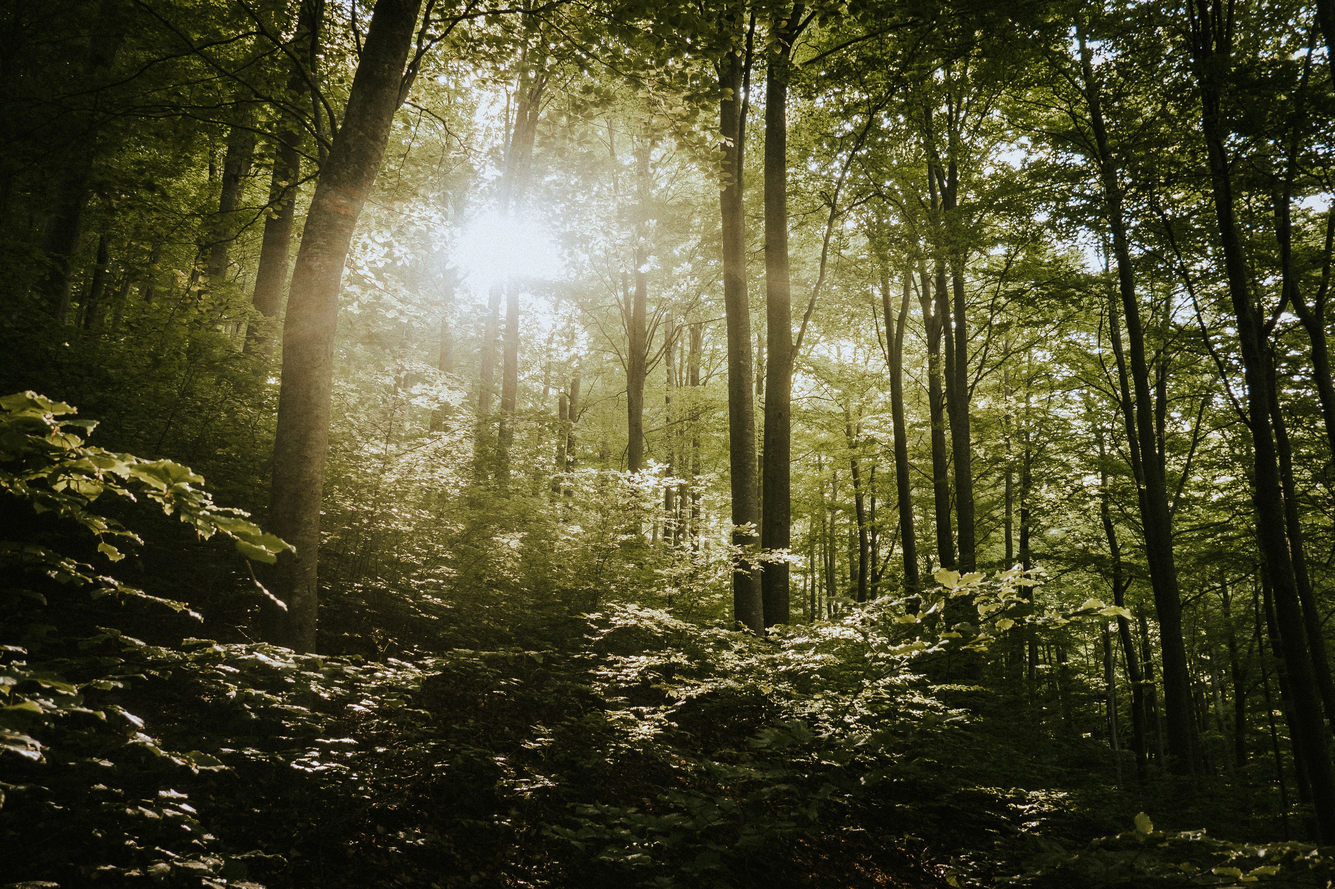
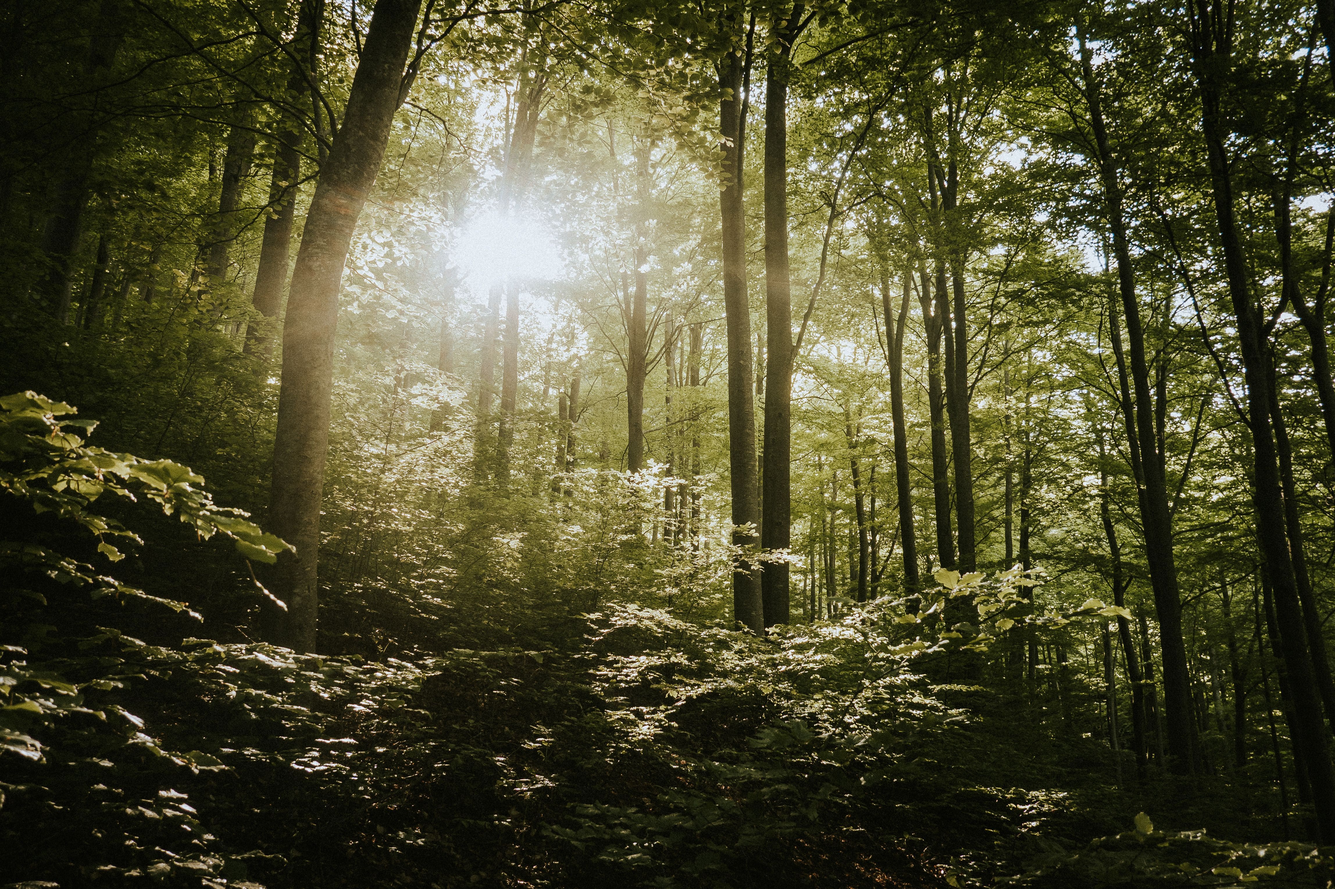
compress images for performance

diff --git a/src/components/Photos.tsx b/src/components/Photos.tsx
@@ -14,7 +14,7 @@ const Photos: React.FC<PhotosProps> = ({ onClose }) => {
     "/gallery/3.jpg",
     "/gallery/4.jfif",
   ];
-  const [currentImage, setCurrentImage] = useState<number>(1);
+  const [currentImage, setCurrentImage] = useState<number>(0);
 
   const changeImage = (direction: string) => {
     if (direction === "back" && currentImage > 0) {
